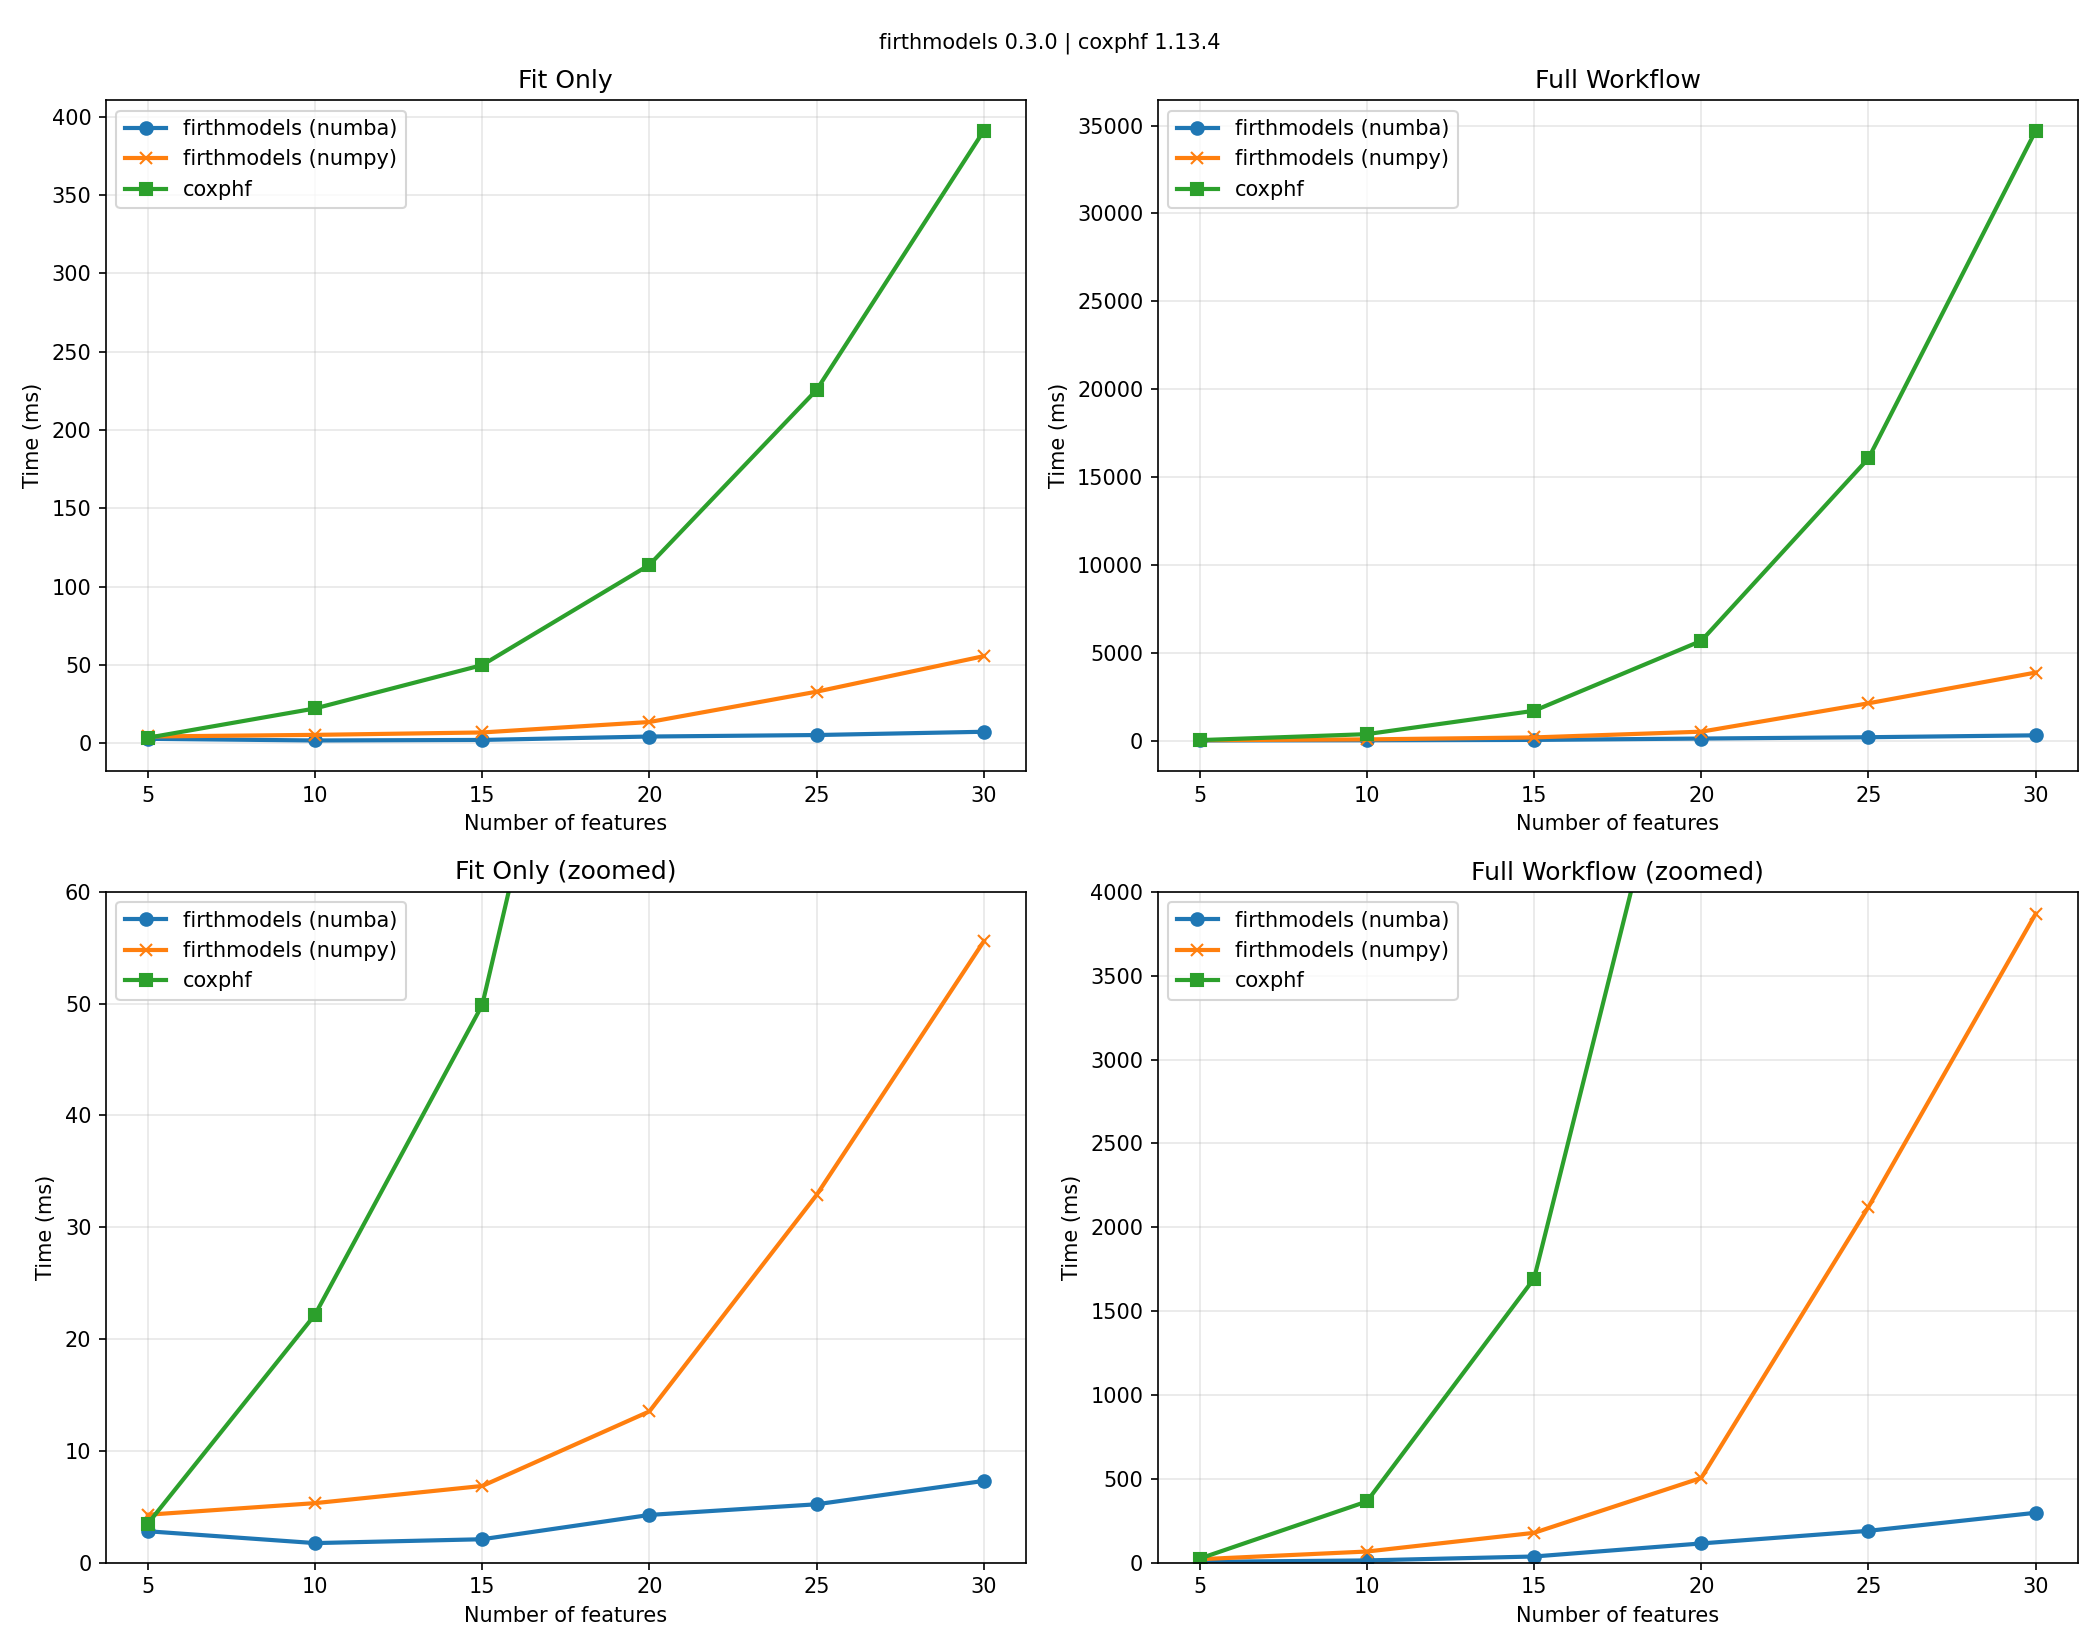
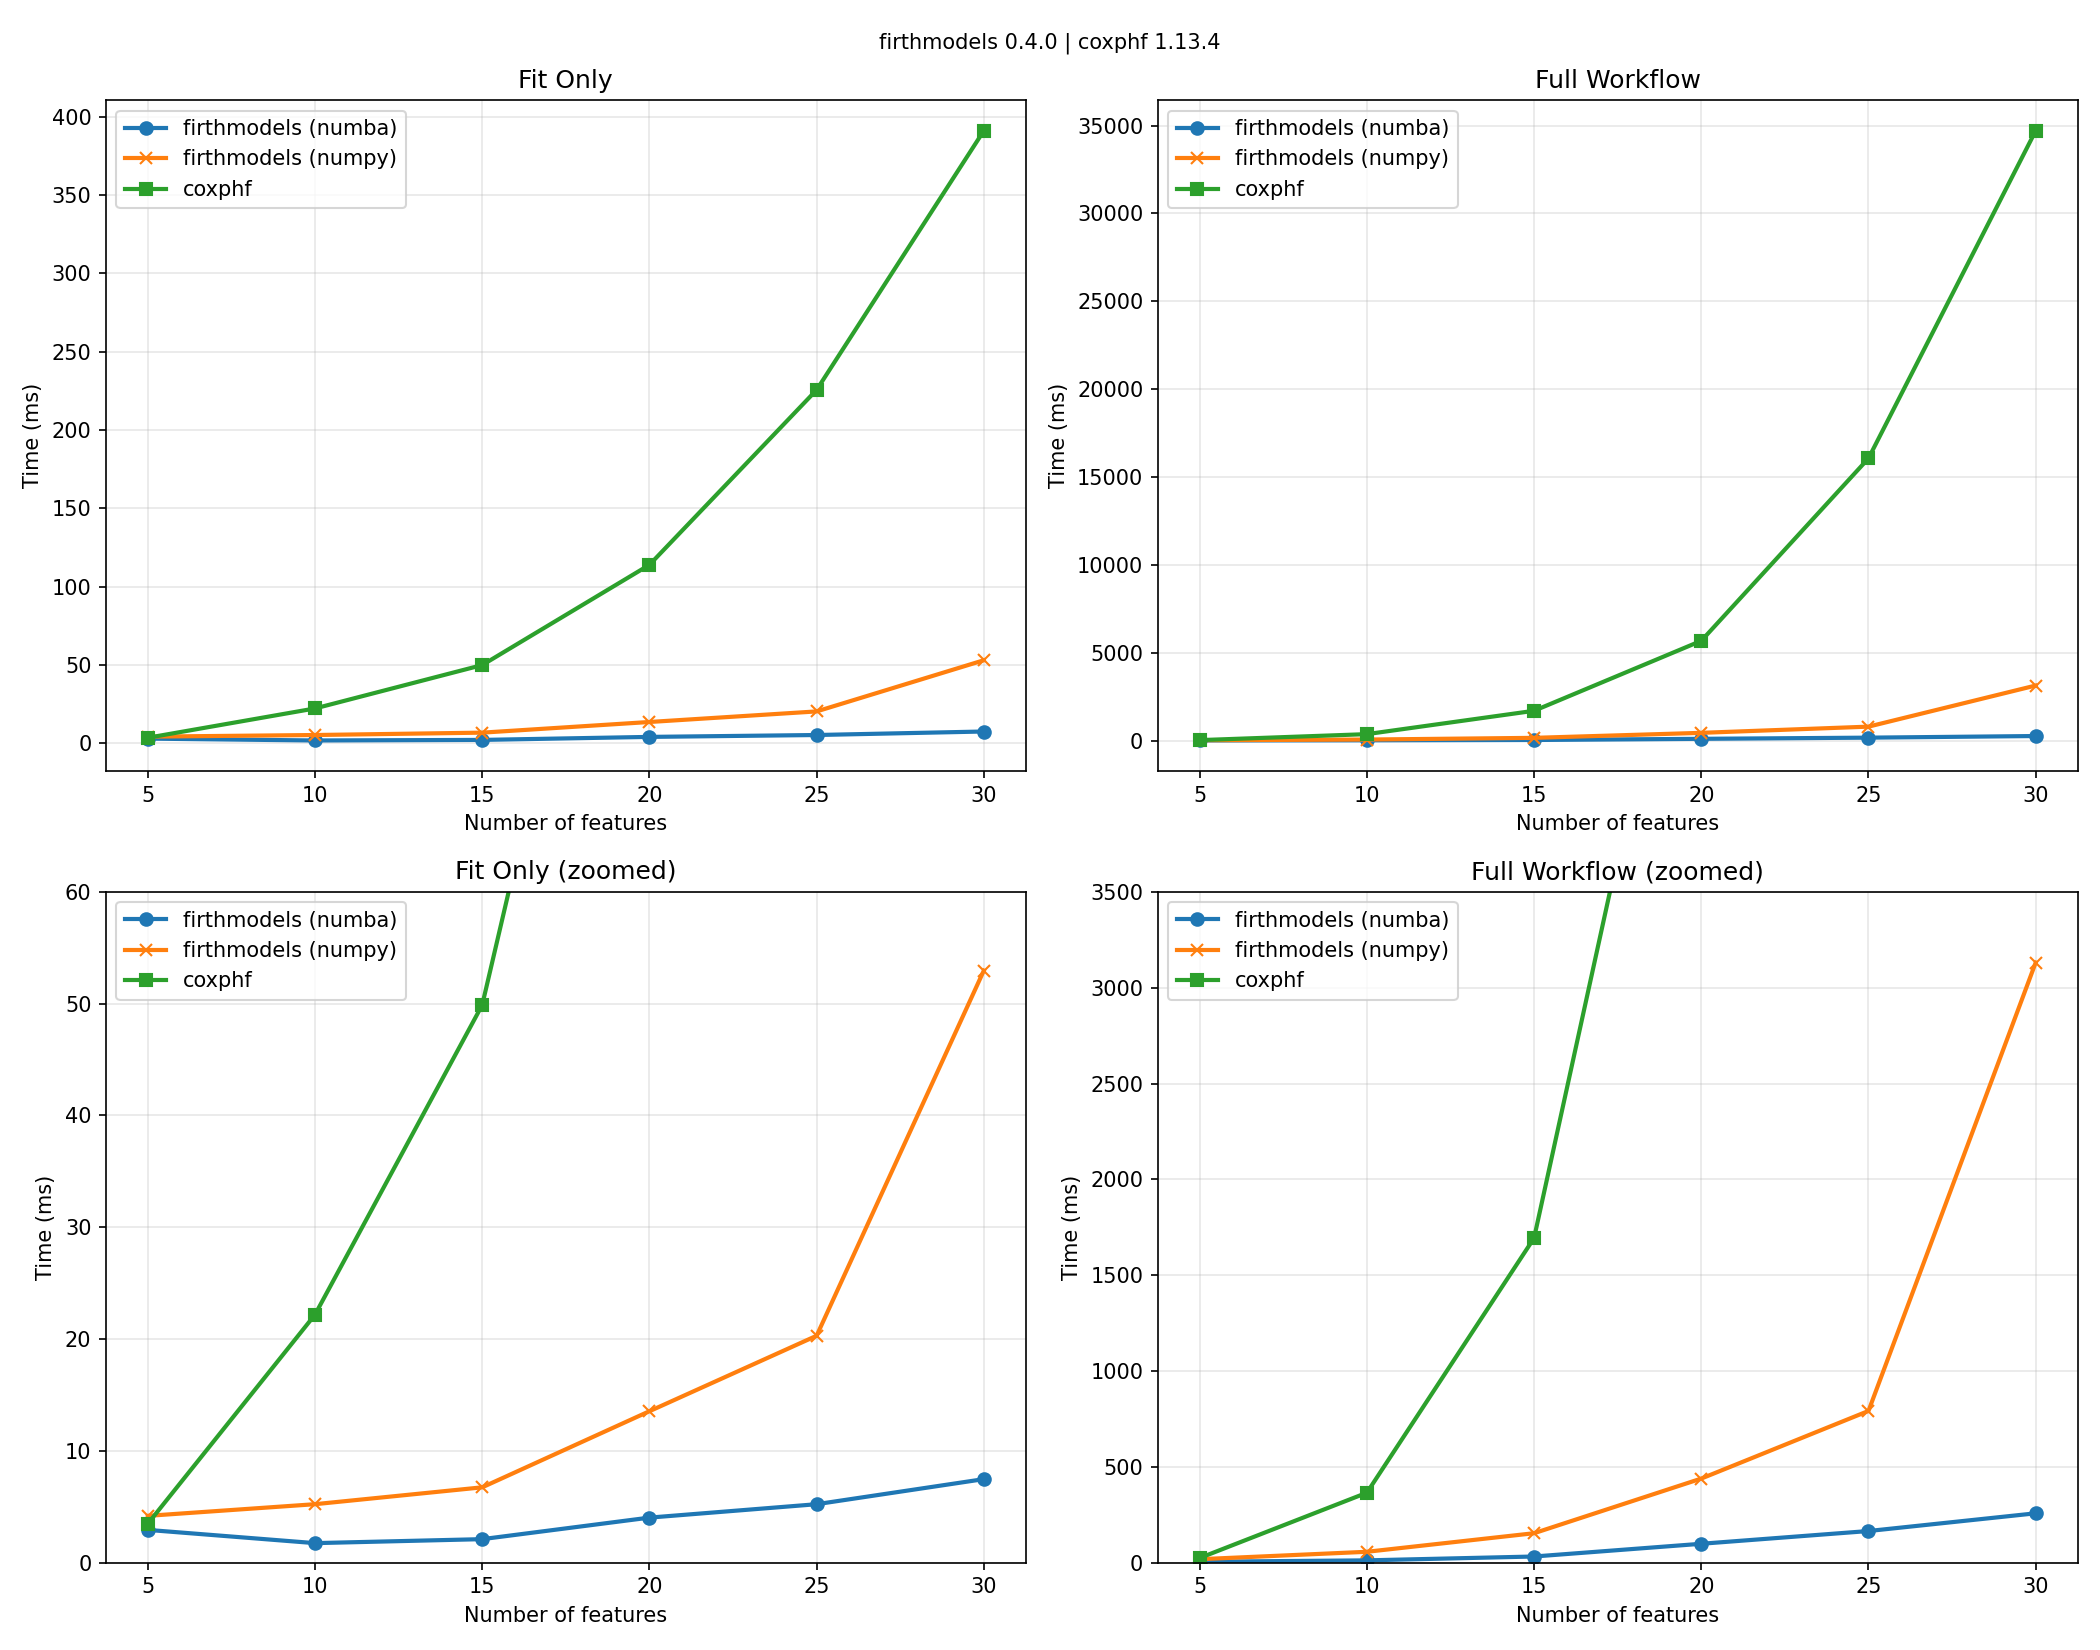
refresh benchmarks for 0.4.0

diff --git a/benchmarks/README.md b/benchmarks/README.md
@@ -27,7 +27,7 @@ for Firth-penalized logistic regression.
 
 | Library | Version | BLAS |
 |---------|---------|------|
-| **firthmodels** | 0.3.0 | /usr/lib/x86_64-linux-gnu/openblas-pthread/ (openblas 0.3.26) |
+| **firthmodels** | 0.4.0 | /usr/lib/x86_64-linux-gnu/openblas-pthread/ (openblas 0.3.26) |
 | **brglm2** | 1.0.1 | /usr/lib/x86_64-linux-gnu/openblas-pthread/libblas.so.3 |
 | **logistf** | 1.26.1 | /usr/lib/x86_64-linux-gnu/openblas-pthread/libblas.so.3 |
 
@@ -57,15 +57,15 @@ Time to fit the model and perform Wald inference. Values are minimum time across
 | k | firthmodels<br>(numba) | firthmodels<br>(numpy) | brglm2<br>(AS-mean) | brglm2<br>(MPL_Jeffreys) | logistf |
 |--:|------:|------:|------------:|-------------:|--------:|
 |   5 | 0.5 | 1.3 | 4.2 | 4.2 | 2.0 |
-|  10 | 1.1 | 1.6 | 7.9 | 7.2 | 4.3 |
-|  15 | 1.2 | 1.8 | 8.2 | 8.2 | 7.6 |
-|  20 | 1.4 | 2.0 | 9.3 | 9.4 | 15.7 |
+|  10 | 1.1 | 1.2 | 7.9 | 7.2 | 4.3 |
+|  15 | 1.2 | 1.9 | 8.2 | 8.2 | 7.6 |
+|  20 | 1.4 | 2.1 | 9.3 | 9.4 | 15.7 |
 |  25 | 1.7 | 2.5 | 11.7 | 11.7 | 24.2 |
-|  30 | 1.9 | 2.7 | 12.6 | 12.9 | 30.2 |
+|  30 | 2.0 | 2.7 | 12.6 | 12.9 | 30.2 |
 |  35 | 2.1 | 3.0 | 14.9 | 14.8 | 42.0 |
-|  40 | 2.6 | 3.5 | 16.9 | 16.8 | 52.7 |
+|  40 | 2.8 | 3.5 | 16.9 | 16.8 | 52.7 |
 |  45 | 3.3 | 4.4 | 18.6 | 19.8 | 70.3 |
-|  50 | 4.1 | 6.1 | 23.9 | 24.2 | 86.0 |
+|  50 | 4.1 | 5.4 | 23.9 | 24.2 | 86.0 |
 
 #### Full Workflow (Fit + LRT + Profile CI)
 
@@ -73,16 +73,16 @@ Time to fit the model, compute penalized likelihood ratio test p-values for all 
 
 | k | firthmodels<br>(numba) | firthmodels<br>(numpy) | logistf |
 |--:|------:|------:|--------:|
-|   5 | 5.1 | 11.5 | 13.6 |
-|  10 | 23.1 | 44.0 | 72.1 |
-|  15 | 33.6 | 68.1 | 157.6 |
-|  20 | 54.2 | 98.9 | 452.6 |
-|  25 | 91.4 | 158.9 | 931.5 |
-|  30 | 127.3 | 201.6 | 1350.4 |
-|  35 | 165.2 | 270.5 | 2322.4 |
-|  40 | 235.8 | 363.8 | 3334.4 |
-|  45 | 322.2 | 496.3 | 4692.8 |
-|  50 | 452.2 | 646.9 | 6501.0 |
+|   5 | 4.7 | 10.2 | 13.6 |
+|  10 | 20.5 | 41.2 | 72.1 |
+|  15 | 31.2 | 65.3 | 157.6 |
+|  20 | 49.6 | 90.3 | 452.6 |
+|  25 | 82.2 | 140.8 | 931.5 |
+|  30 | 117.2 | 184.5 | 1350.4 |
+|  35 | 147.6 | 240.9 | 2322.4 |
+|  40 | 211.8 | 316.5 | 3334.4 |
+|  45 | 279.8 | 413.6 | 4692.8 |
+|  50 | 393.2 | 538.8 | 6501.0 |
 
 
 ---
@@ -97,7 +97,7 @@ for Firth-penalized Cox proportional hazards regression.
 
 | Library | Version | BLAS |
 |---------|---------|------|
-| **firthmodels** | 0.3.0 | /usr/lib/x86_64-linux-gnu/openblas-pthread/ (openblas 0.3.26) |
+| **firthmodels** | 0.4.0 | /usr/lib/x86_64-linux-gnu/openblas-pthread/ (openblas 0.3.26) |
 | **coxphf** | 1.13.4 | /usr/lib/x86_64-linux-gnu/openblas-pthread/libblas.so.3 |
 
 ### Configuration
@@ -124,12 +124,12 @@ Time to fit the model and perform Wald inference. Values are minimum time across
 
 | k | firthmodels<br>(numba) | firthmodels<br>(numpy) | coxphf |
 |--:|------:|------:|-------:|
-|   5 | 2.8 | 4.3 | 3.5 |
-|  10 | 1.7 | 5.3 | 22.2 |
-|  15 | 2.1 | 6.9 | 49.9 |
-|  20 | 4.3 | 13.5 | 113.9 |
-|  25 | 5.2 | 32.9 | 225.5 |
-|  30 | 7.3 | 55.6 | 391.0 |
+|   5 | 2.9 | 4.2 | 3.5 |
+|  10 | 1.7 | 5.2 | 22.2 |
+|  15 | 2.1 | 6.7 | 49.9 |
+|  20 | 4.0 | 13.5 | 113.9 |
+|  25 | 5.2 | 20.3 | 225.5 |
+|  30 | 7.5 | 53.0 | 391.0 |
 
 #### Full Workflow (Fit + LRT + Profile CI)
 
@@ -137,12 +137,12 @@ Time to fit the model, compute penalized likelihood ratio test p-values for all 
 
 | k | firthmodels<br>(numba) | firthmodels<br>(numpy) | coxphf |
 |--:|------:|------:|-------:|
-|   5 | 4.4 | 19.9 | 23.8 |
-|  10 | 12.9 | 66.0 | 364.4 |
-|  15 | 36.3 | 177.5 | 1693.6 |
-|  20 | 114.2 | 504.9 | 5675.5 |
-|  25 | 189.4 | 2121.2 | 16062.0 |
-|  30 | 297.1 | 3870.1 | 34707.3 |
+|   5 | 4.3 | 17.6 | 23.8 |
+|  10 | 11.6 | 56.3 | 364.4 |
+|  15 | 31.7 | 153.3 | 1693.6 |
+|  20 | 98.2 | 438.4 | 5675.5 |
+|  25 | 164.7 | 791.2 | 16062.0 |
+|  30 | 257.2 | 3131.3 | 34707.3 |
 
 
 ---
